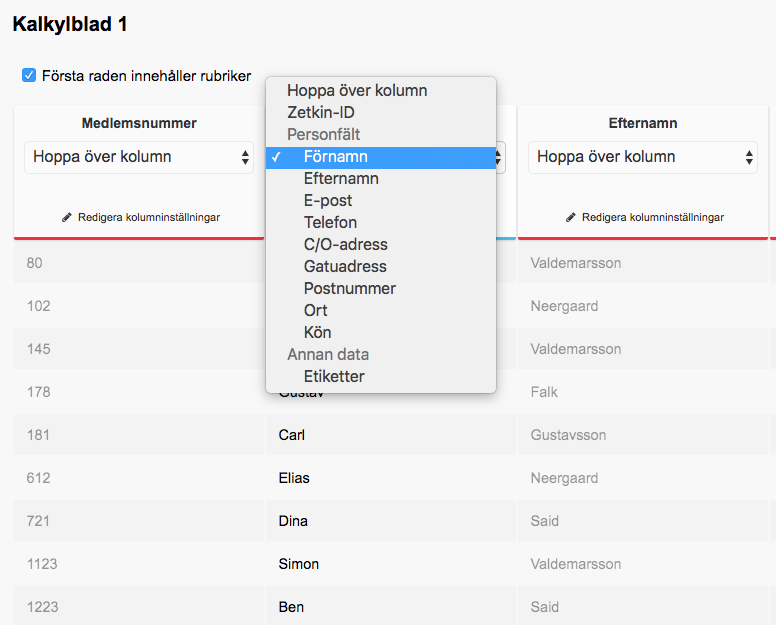
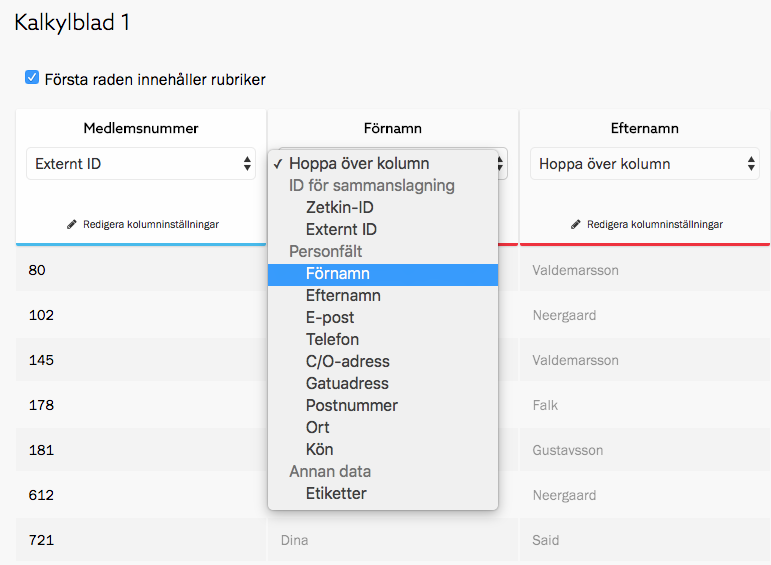
[sv] Update import guide to include External ID

diff --git a/sv/for-funktionarer/guider/importera-dina-medlemmar/index.md b/sv/for-funktionarer/guider/importera-dina-medlemmar/index.md
@@ -49,11 +49,18 @@ Till att börja med är alla kolumner nedsläckta. Vi måste välja rätt
 Zetkin-fält som varje kolumn ska importeras till. Det gör man i den lista
 där det valda alternativet just nu är "Hoppa över kolumn". 
 
+> _Externt ID_ är ett bra sätt att synka mellan Zetkin och ett annat system.
+> Läs mer om [ID för sammanslagning](../../manniskor/importera#id-för-sammanslagning).
+
 ![Välj kolumner](./valjkolumn.png)
 
-Gå igenom följande kolumner och välj rätt fält för varje kolumn. Vi struntar
-i kolumnen "Medlemsnummer" som är det gamla systemets nummer, och väntar med
-kolumnen "Grupper".
+Den första kolumnen är speciell. Där finns ID-nummer från vårt medlemsregister,
+som vi kommer fortsätta använda parallellt med Zetkin. Vi väljer därför att
+importera denna kolumn som _Externt ID_, så kan vi göra fler importer från vårt
+medlemsregister i framtiden med minimal risk för dubletter.
+
+Gå sedan igenom följande kolumner och välj rätt fält för varje kolumn. Vi väntar
+med kolumnen "Grupper".
 
 > Du behöver inte importera all information om du inte vill. E-postadress och
 > telefonnummer räcker bra för de flesta av Zetkins användningsområden.
